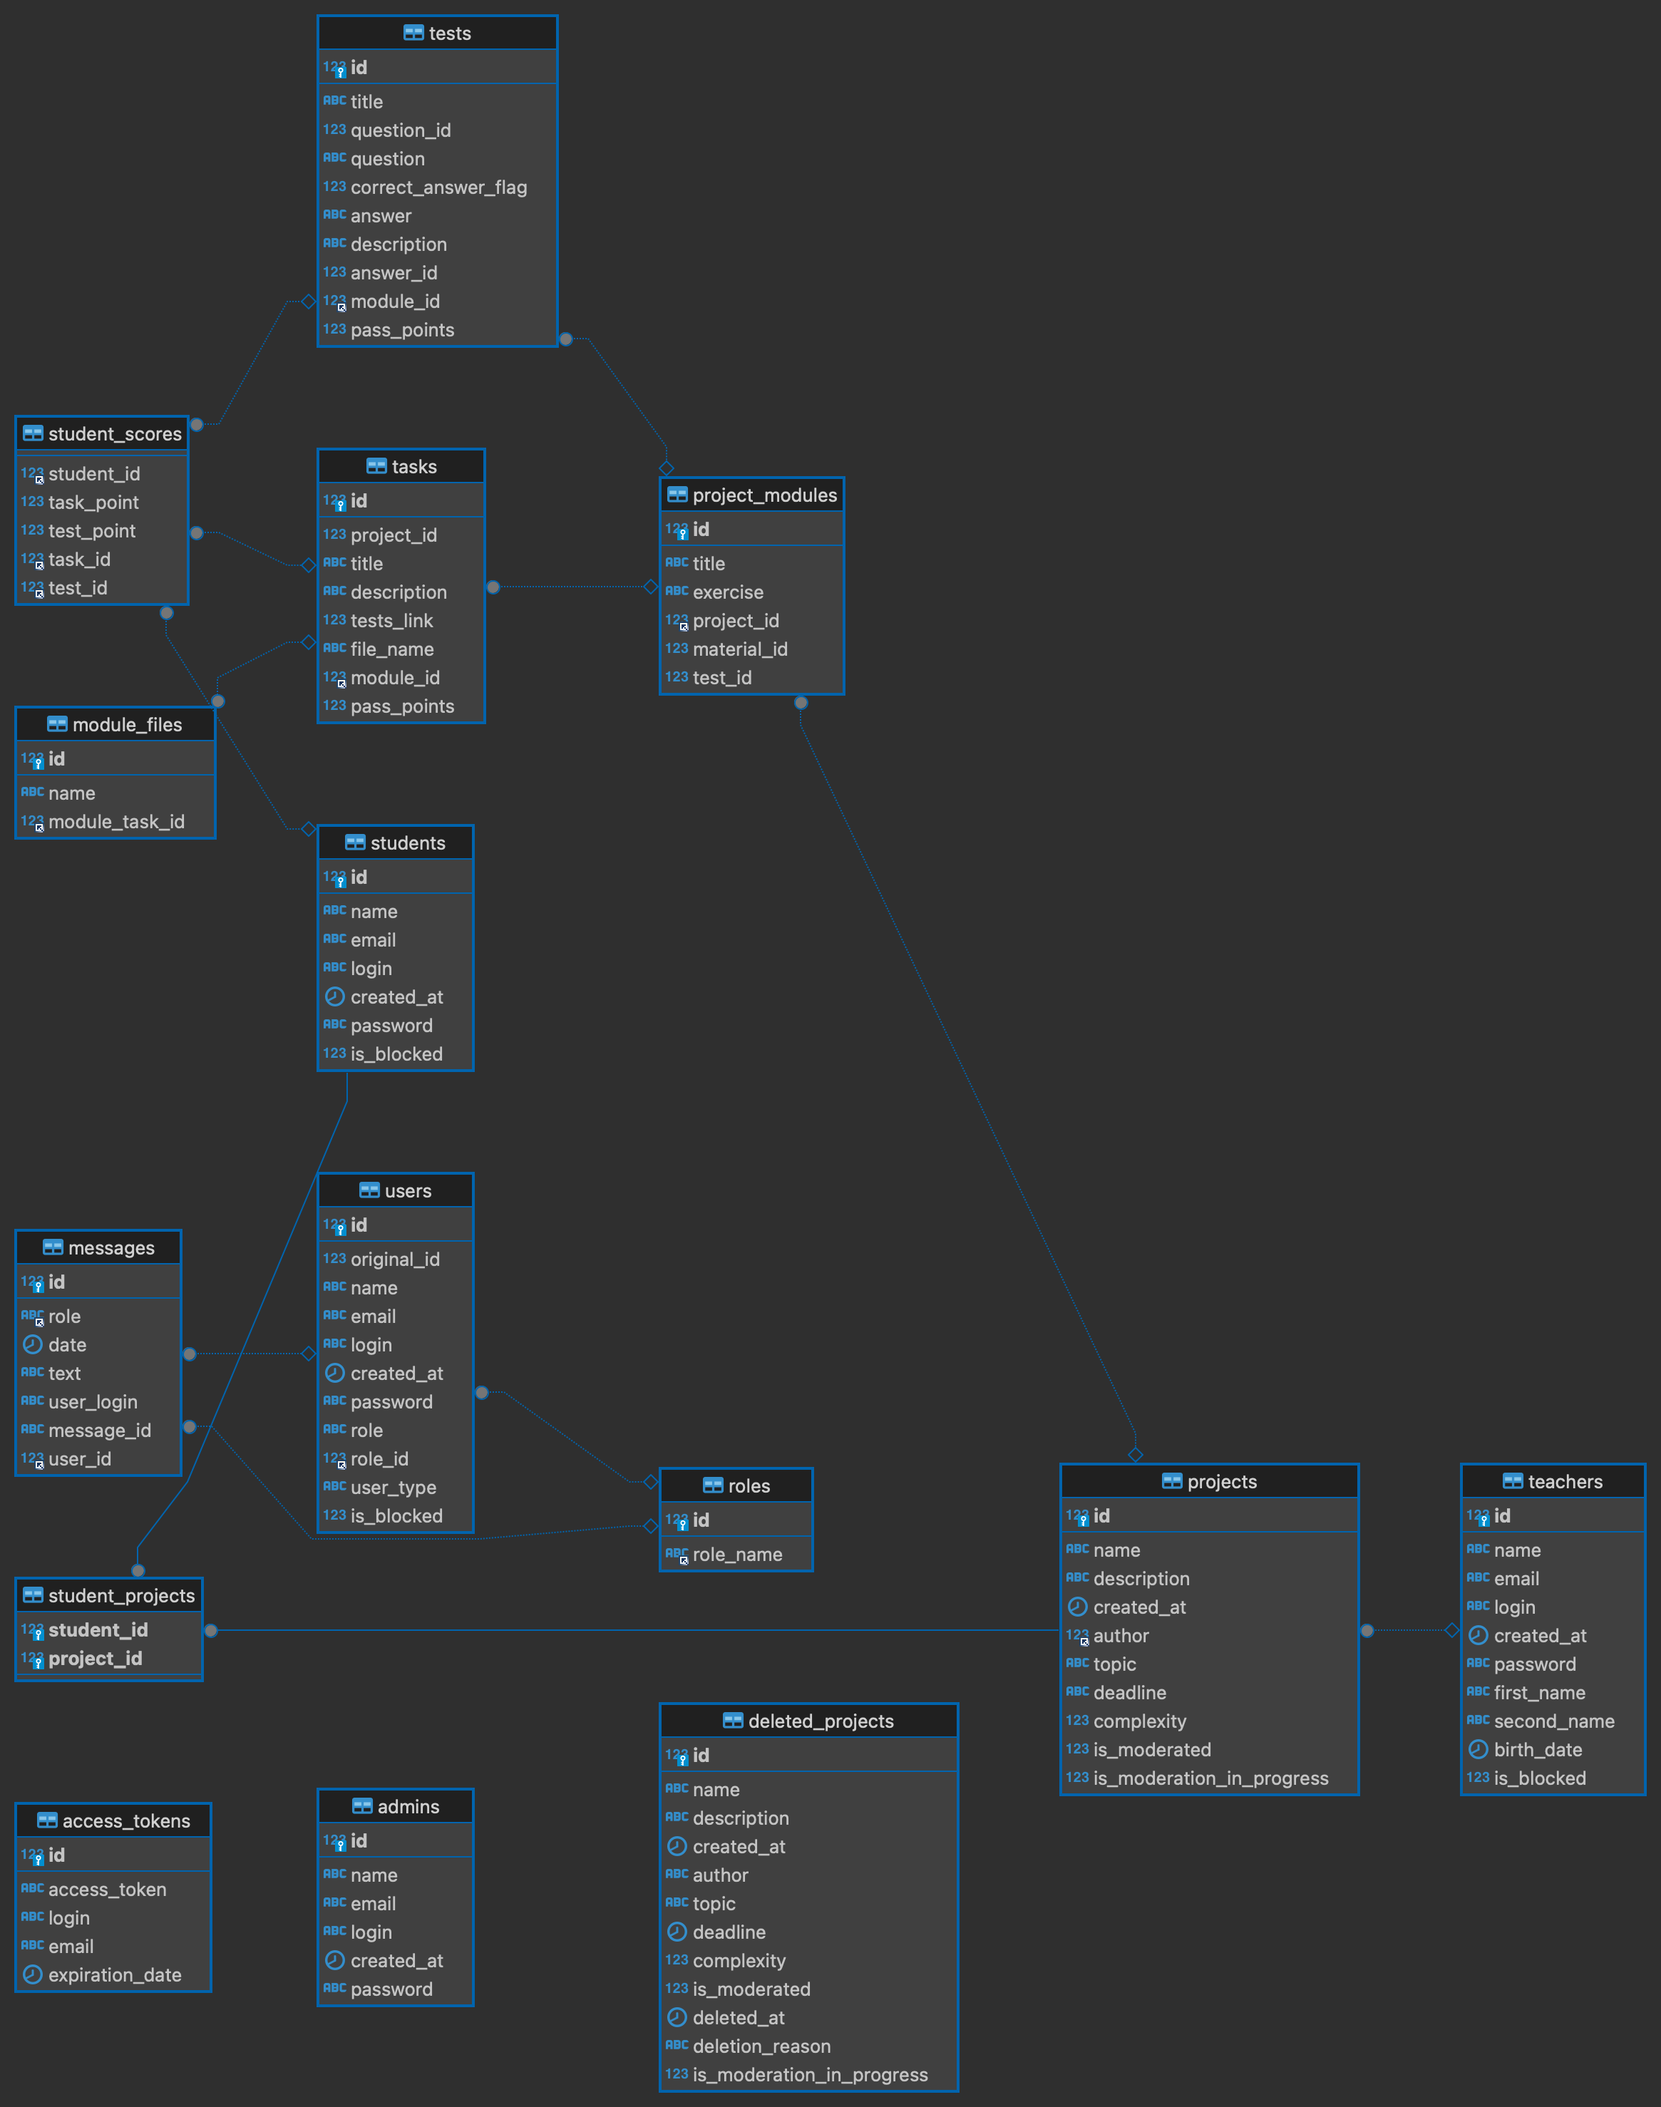
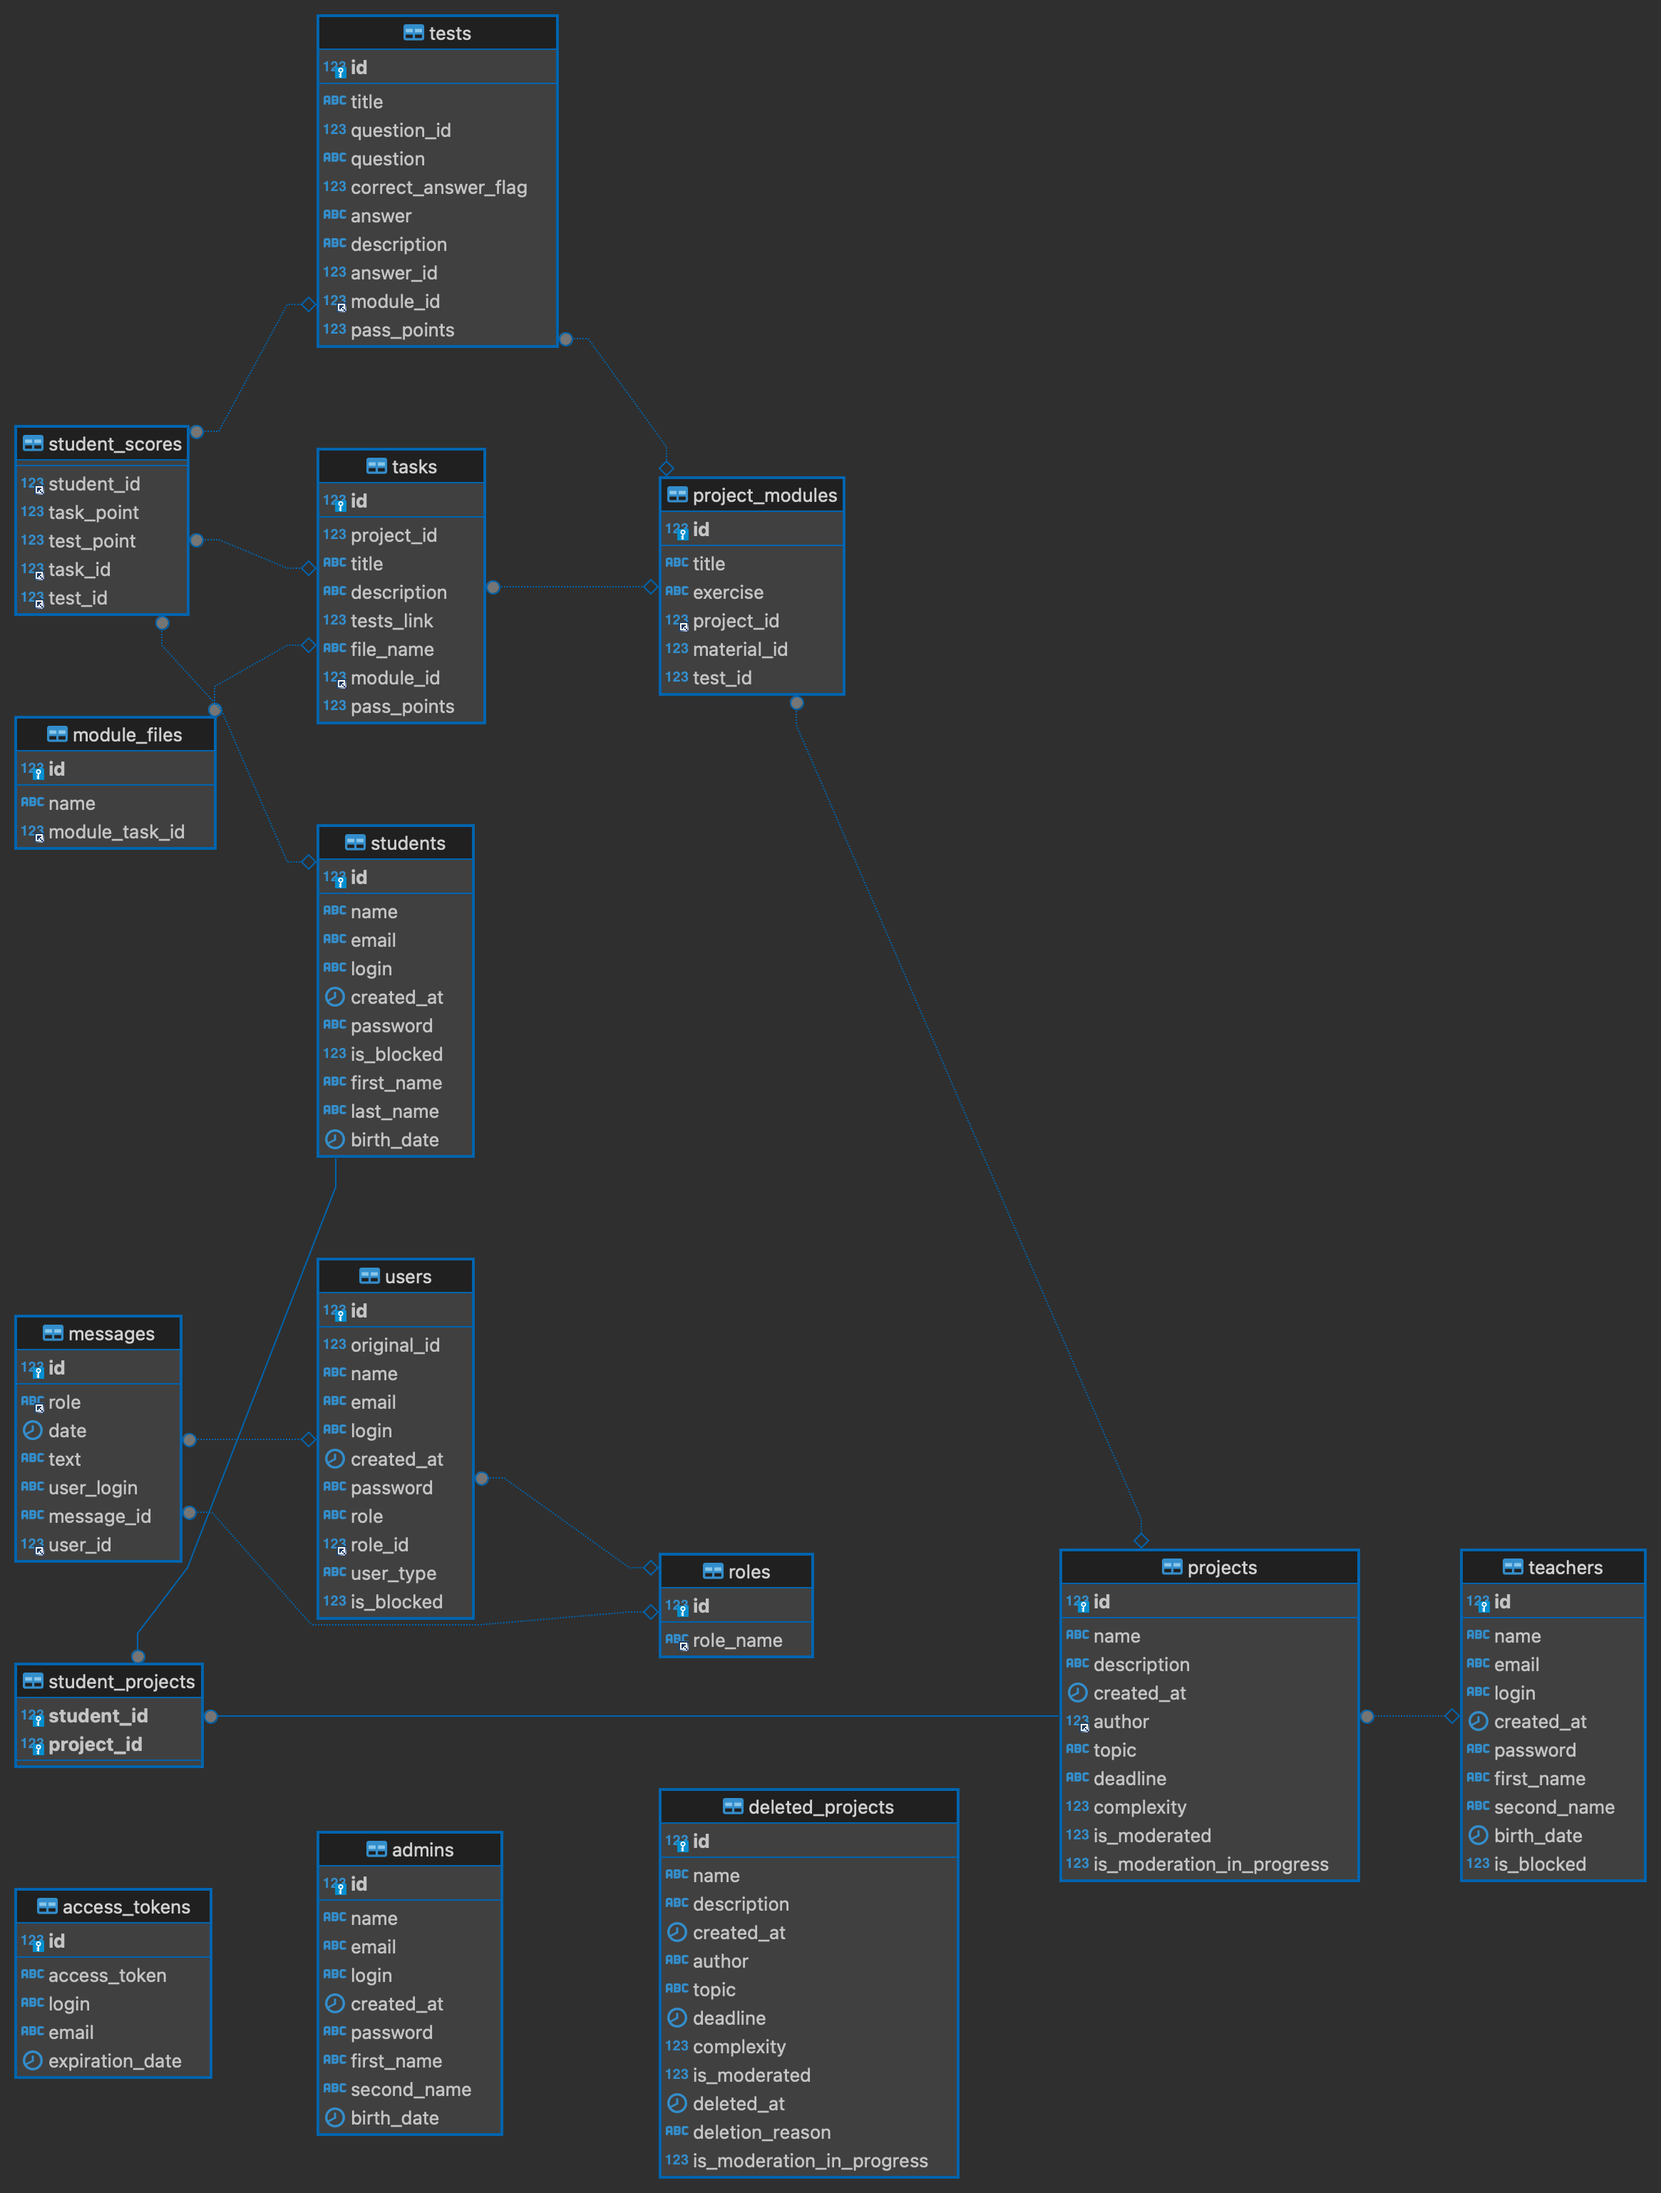
[Backend] Update DB dump, ERD, project deletion

diff --git a/Frontend/app/src/Pages/projects/Components/Project-controls/StandardProjectControls.tsx b/Frontend/app/src/Pages/projects/Components/Project-controls/StandardProjectControls.tsx
@@ -4,7 +4,7 @@ import { StandartButton } from '@ui/Atoms/Buttons';
 import { StandartLabel } from '@ui/Atoms/Labels';
 import { useState } from 'react';
 import { StandartPopupWithContent } from '~/src/Components/Popup/StandartPopupWithContent';
-import { setIsOpenEditProjectPage, setProjectDetailsPage, setProjectIdOnEdit, setStage } from '~/src/features/store/projects';
+import { setIsOpenEditProjectPage, setProjectDetailsPage, setProjectIdOnEdit, setRefreshProjects, setStage } from '~/src/features/store/projects';
 import { EUserRoles, IProject } from '~/src/a-lib';
 import APIRequest from '@api-package/index';
 import { TRequestMethod } from '@api-package/types';
@@ -54,6 +54,16 @@ const Controls = ({ project }: IProps): JSX.Element => {
                 break;
         }
     };
+    const onDeleteProject = async () => {
+        await new APIRequest({
+            uri: '/api/projects/delete',
+            method: TRequestMethod.POST,
+            body: JSON.stringify({
+                id: project.id,
+            })
+        }).doRequest();
+        dispatch(setRefreshProjects(true));
+    };
     return <>
         {controlState.option1.type === 'button' &&
             <StandartButton
@@ -80,6 +90,7 @@ const Controls = ({ project }: IProps): JSX.Element => {
             updateIsOpen={setIsOpenTecherDeleteProjectPopup}
             text='Вы действительно хотите удалить выбраный проект'
             firstBtn='Удалить'
+            firstBtnOnClick={onDeleteProject}
         />
     </>
 };

diff --git a/Backend/server.ts b/Backend/server.ts
@@ -267,8 +267,9 @@ app.post('/api/projects/add-new-project', async (req, res) => {
     } = req.body;
     try {
         const dateNow = new Date();
-        new DBQuery(mysql).insert('projects', {
-            author,
+        const authorId = await new DBQuery(mysql).call(`SELECT id from teachers WHERE login = '${author}'`);
+        await new DBQuery(mysql).insert('projects', {
+            author: authorId[0].id,
             name: projectTitle,
             description: projectDescription,
             topic: projectTopic,
